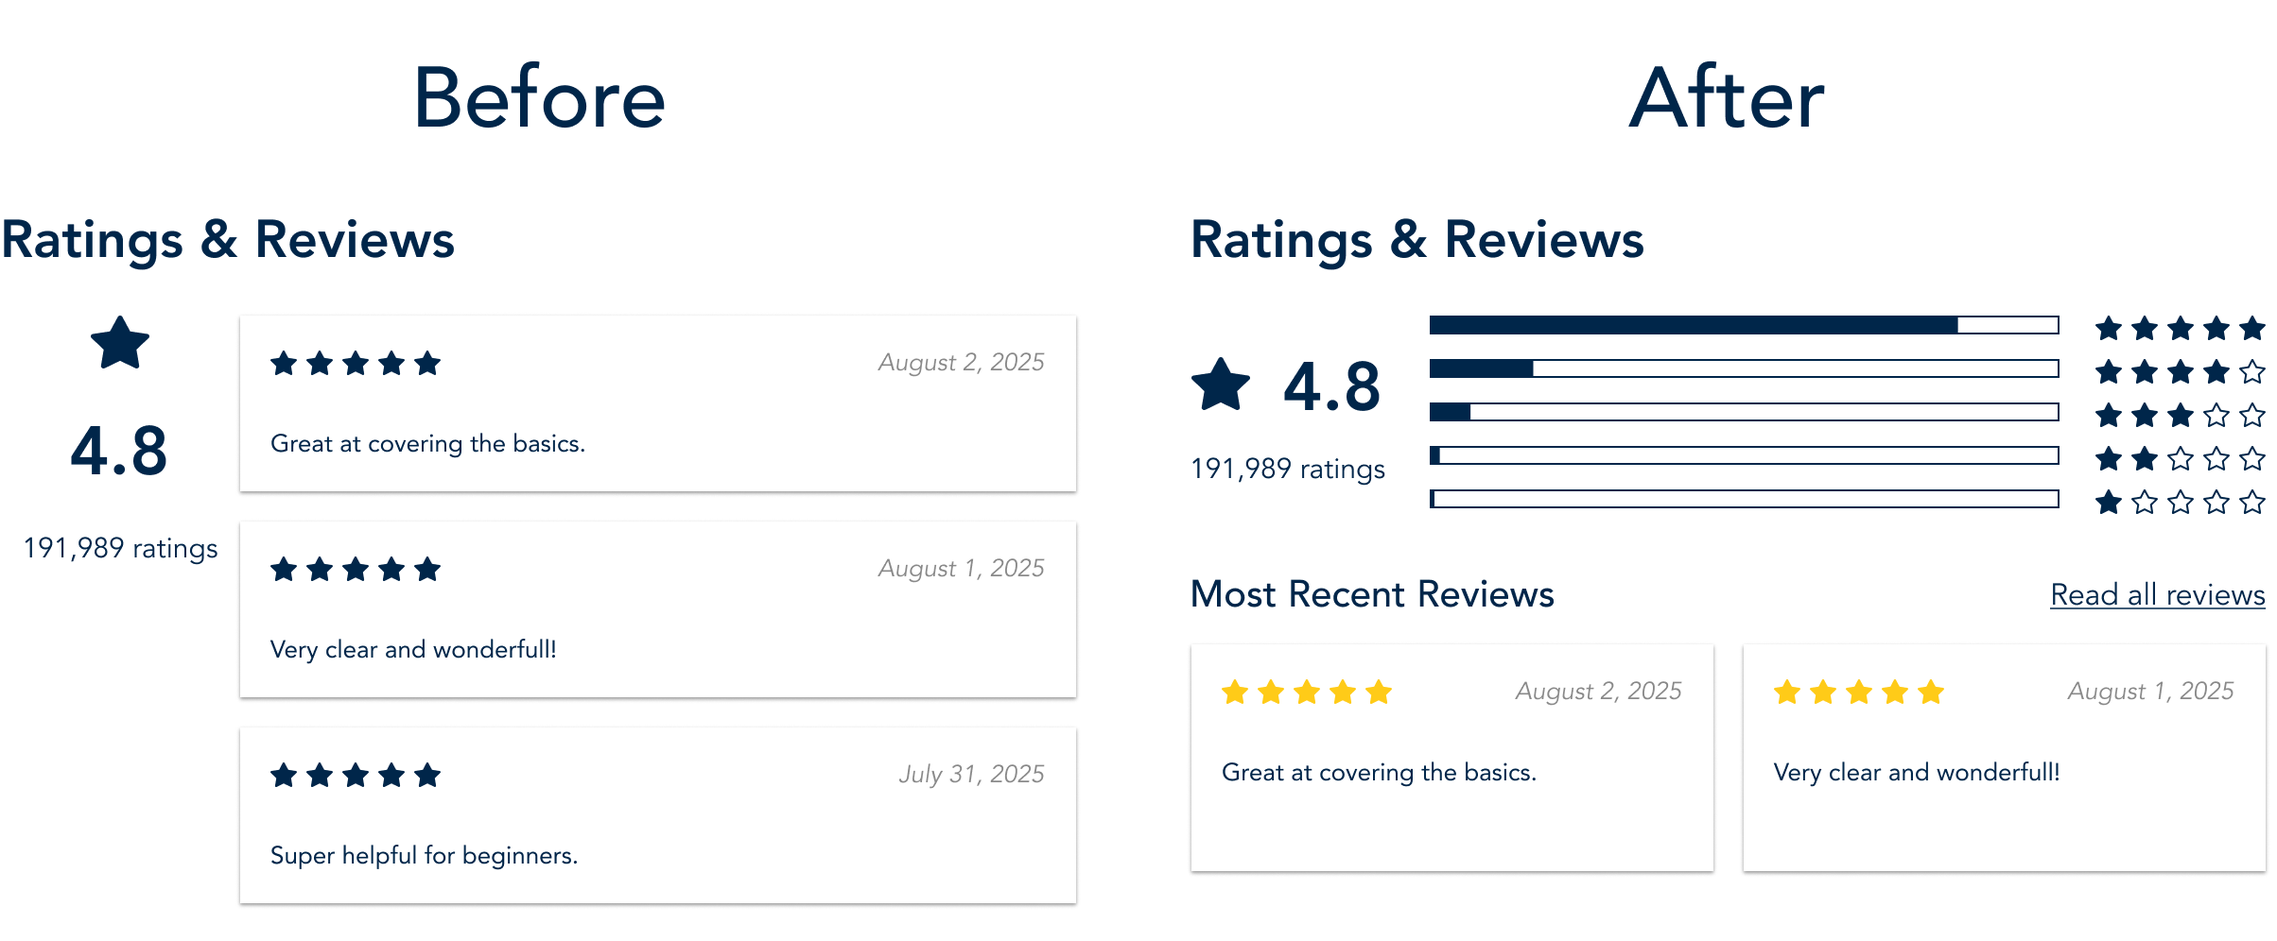
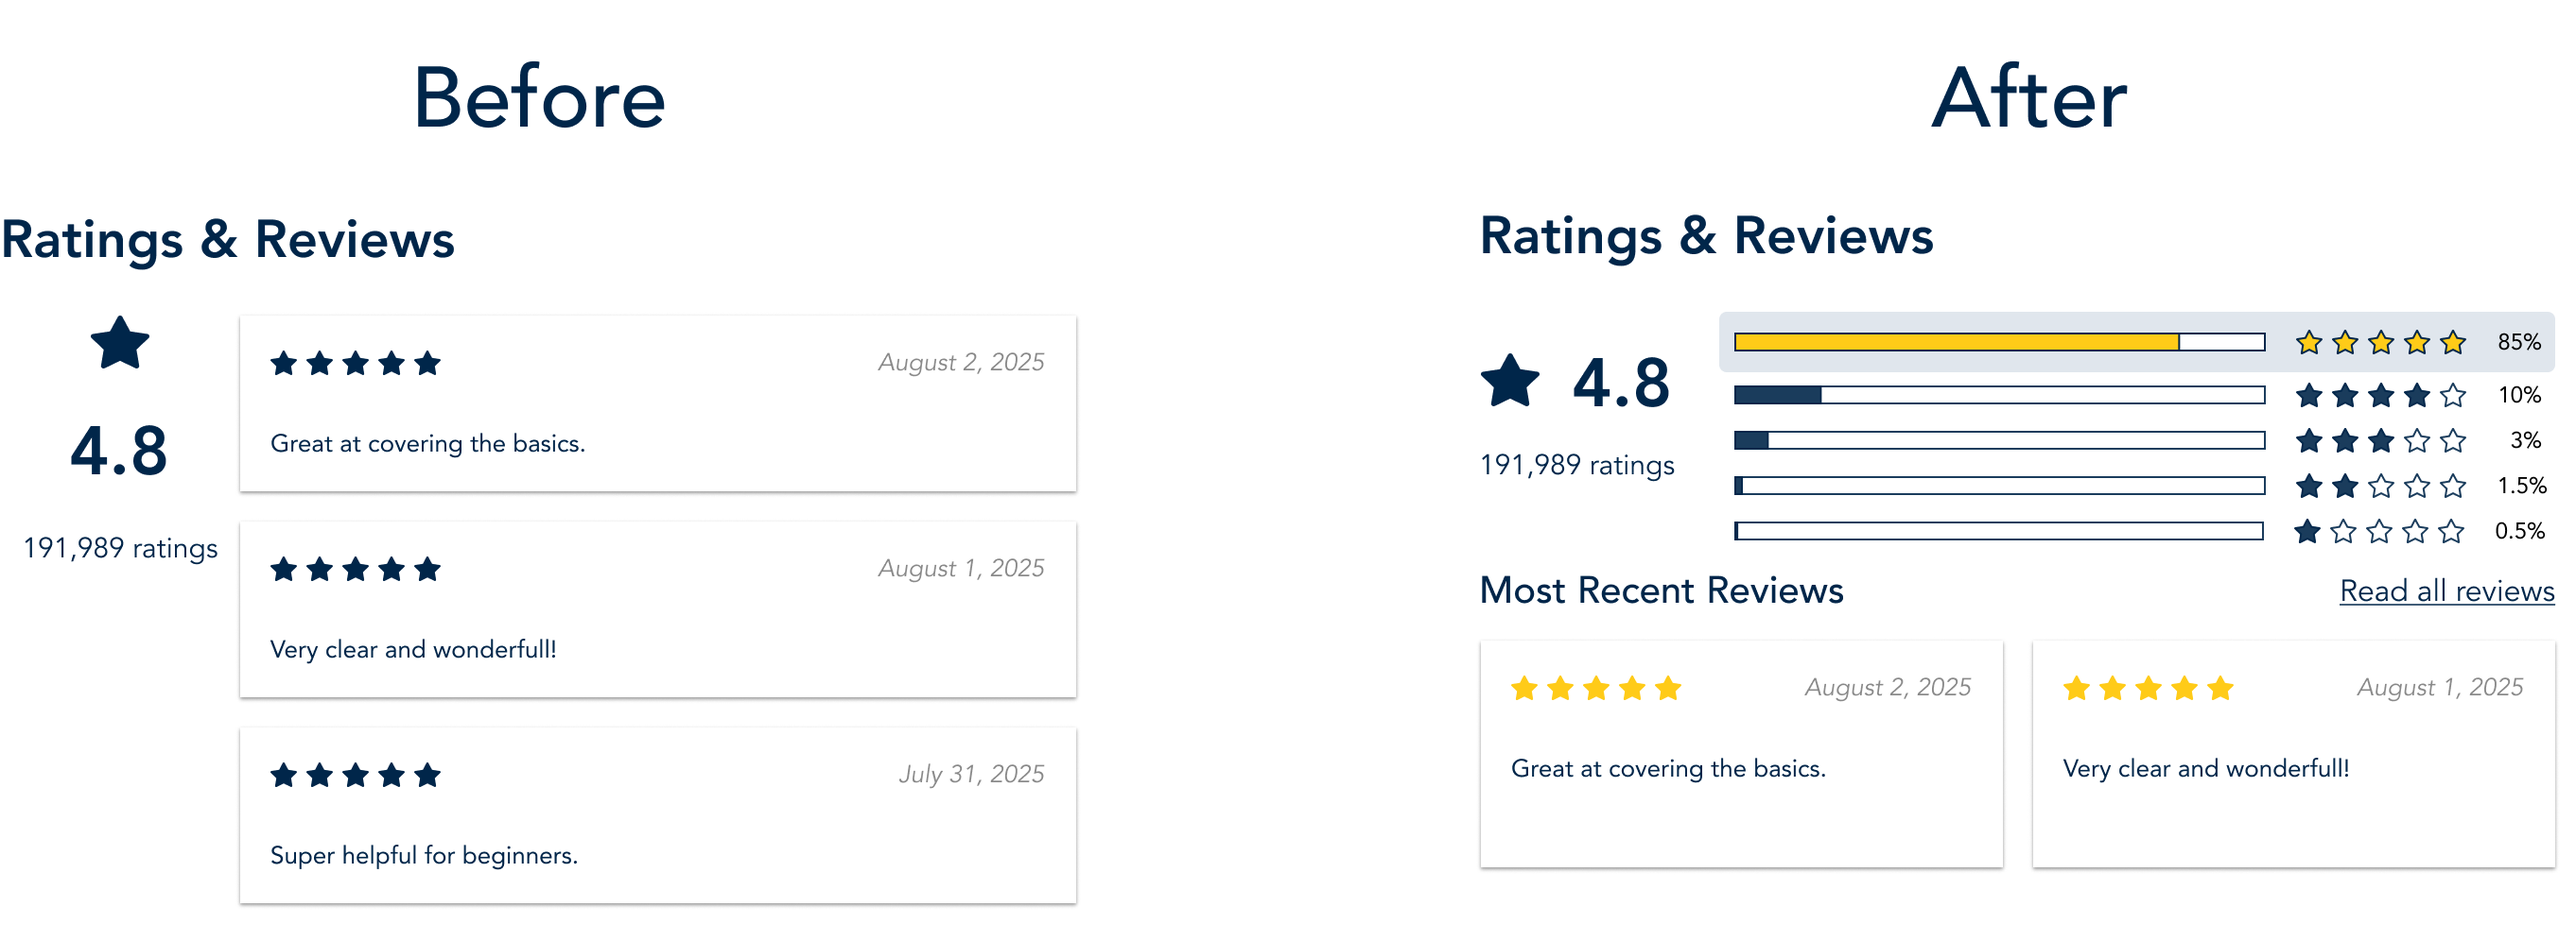
Finish MO case study

diff --git a/_projects/michigan-online.md b/_projects/michigan-online.md
@@ -54,12 +54,12 @@ published: true
 
 <div class="nhm-card--horizontal image-last--mobile responsive-margin-bottom">
   <div class="nhm-card__image-wrapper">
-    <img src="/assets/images/construction.svg" class="nhm-card__image mxh-300" alt="" />
+    <img src="/assets/images/michigan-online/michigan-online--why-it-matters.png" class="nhm-card__image mw-300 mx-auto" alt="" />
   </div>
   <div>
     <h2>Why It Matters</h2>
     <p class="p--lg">
-      A well-designed review section contributes to an organization/product's overall reputation, increasing consumer trust in the quality of their purchase. Visibility into the full array of reviews (not just the most positive ones) improves the credibility of reviews as well.
+      A well-designed review section contributes to an organization/product's overall <strong>reputation</strong>, and increases consumer <strong>trust</strong> in the quality of their purchase. Visibility into the full array of reviews (not just the most positive ones) also improves the <strong>credibility</strong> of reviews.
     </p>
   </div>
 </div>
@@ -108,45 +108,67 @@ published: true
   <p class="p--lg">
     The first design minimized clicks but increased scrolling on the page as a whole. The second design provided a more progressive exploration of the reviews, but obscured the full set of reviews behind an additional click that some users might miss.
   </p>
+  <img src="/assets/images/michigan-online/michigan-online--prototypes.png" class="d-block w-100 mb-3" alt="" />
 </div>
 
-<div class="nhm-card--horizontal image-last--mobile responsive-margin-bottom">
+<div class="nhm-card--horizontal image-last--mobile">
   <div class="nhm-card__image-wrapper">
-    <img src="/assets/images/construction.svg" class="mxh-300 nhm-card__image" alt="" />
+    <img src="/assets/images/michigan-online/michigan-online--usability-findings.png" class="nhm-card__image" alt="" />
   </div>
   <div>
     <h2>Usability Testing</h2>
     <p class="p--lg">
       After that, I conducted 5 usability tests with undergraduate students who were experienced with online learning. Findings included:
     </p> 
-    <ul>
-      <li>
-        <p class="p--lg">
-          Participants were often most interested in seeing the reviews associated with the lowest ratings. “Why didn’t someone like this course?”
-        </p>
-      </li>
-      <li>
-        <p class="p--lg">
-          Participants were okay with going to a second page to see all reviews, as it made the main course page less overwhelming.
-        </p>
-      </li>
-      <li>
-        <p class="p--lg">
-          Some participants expressed interest in knowing more about the people who wrote reviews, and being able to see more descriptive rating/review information about the course (similar to Skillshare).
-        </p>
-      </li>
-    </ul>
   </div>
 </div>
 
+<div class="responsive-margin-bottom">
+<ul>
+  <li>
+    <p class="p--lg">
+      Participants were okay with going to a second page to see all reviews, as it made the main course page less overwhelming.
+    </p>
+  </li>
+  <li>
+    <p class="p--lg">
+      Participants were sometimes unaware that the histogram and star ratings were interactive. One person also suggested displaying the percentage of total ratings each level represented.
+    </p>
+  </li>
+  <li>
+    <p class="p--lg">
+      Some participants expressed interest in knowing more about the people who wrote reviews, in order to determine if the feedback was coming from a person similar to them.
+    </p>
+  </li>
+</ul>
+</div>
+
+
 <div class="nhm-card--horizontal image-last--mobile responsive-margin-bottom">
   <div class="nhm-card__image-wrapper">
-    <img src="/assets/images/construction.svg" class="mxh-300 nhm-card__image" alt="" />
+    <img src="/assets/images/michigan-online/michigan-online--ideal-version.png" class="nhm-card__image" alt="" />
   </div>
   <div>
     <h2>Final Iteration</h2>
     <p class="p--lg">
-      Ultimately, I went with the version that splits the experience into two pages, one for seeing a subset of the most recent reviews by rating level on the main course page and another for seeing all reviews.
+      In the last iteration of the project, I incorporated user feedback to better communicate each rating's interactivity and proportion.
     </p> 
+    <h3>Unexpected Constraint</h3>
+    <p class="p--lg">
+      I experimented with adding more biographical information about each reviewer, but due to data limitaitons I was unable to provide these details. We source our reviews from 3rd party platforms who don't pass that info to us (e.g., Coursera).
+    </p> 
+  </div>
+</div>
+
+<div class="responsive-margin-bottom align--center">
+  <div>
+    <h2>The Result</h2>
+    <p class="p--lg align--left">
+    The outcome of this effort was a more interactive, transparent course rating section that allowed prospective learners to explore the full set of reviews for a given learning experience.
+    </p>
+    <p class="p--lg align--left">
+    Now that the design is implemented, I'd like to collect quantitative measurements of user satisfaction, and monitor click-through rates between the course and review pages to guage usage.
+    </p>
+    <img src="/assets/images/michigan-online/michigan-online--cover.png" class="d-block mw-700 mx-auto nhm-card__image mt-5" alt="" />
   </div>
 </div>
